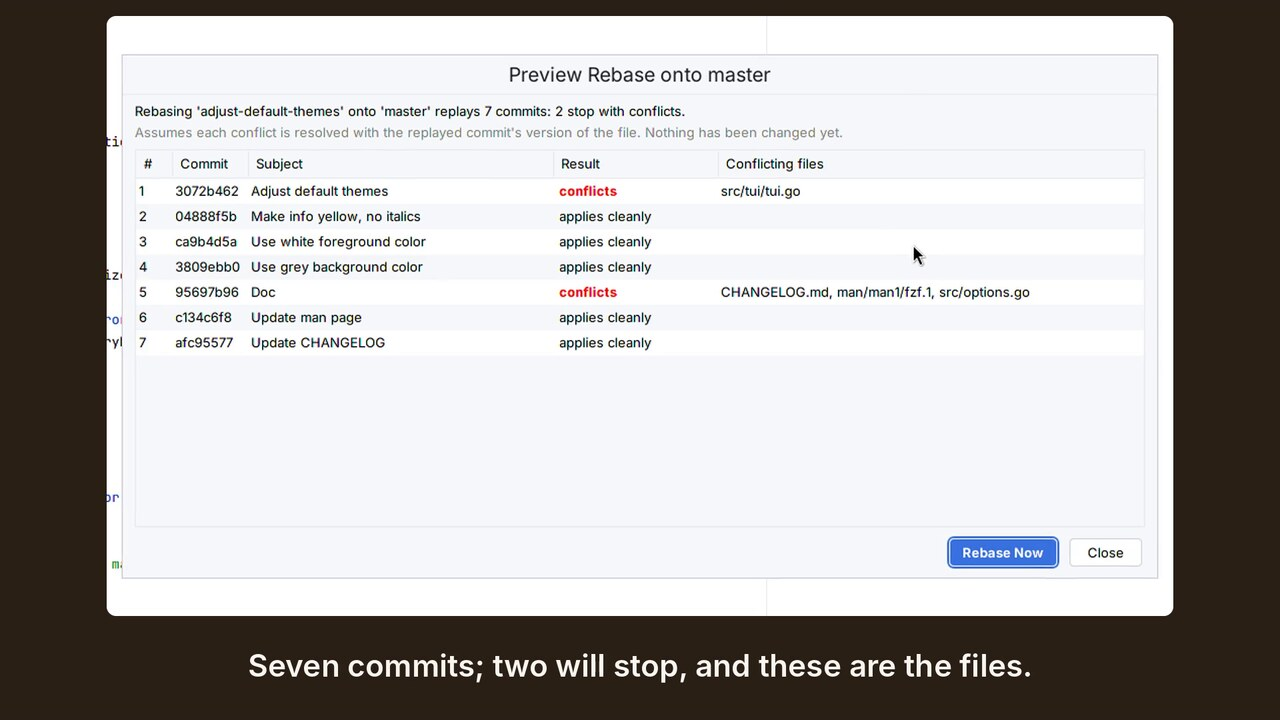
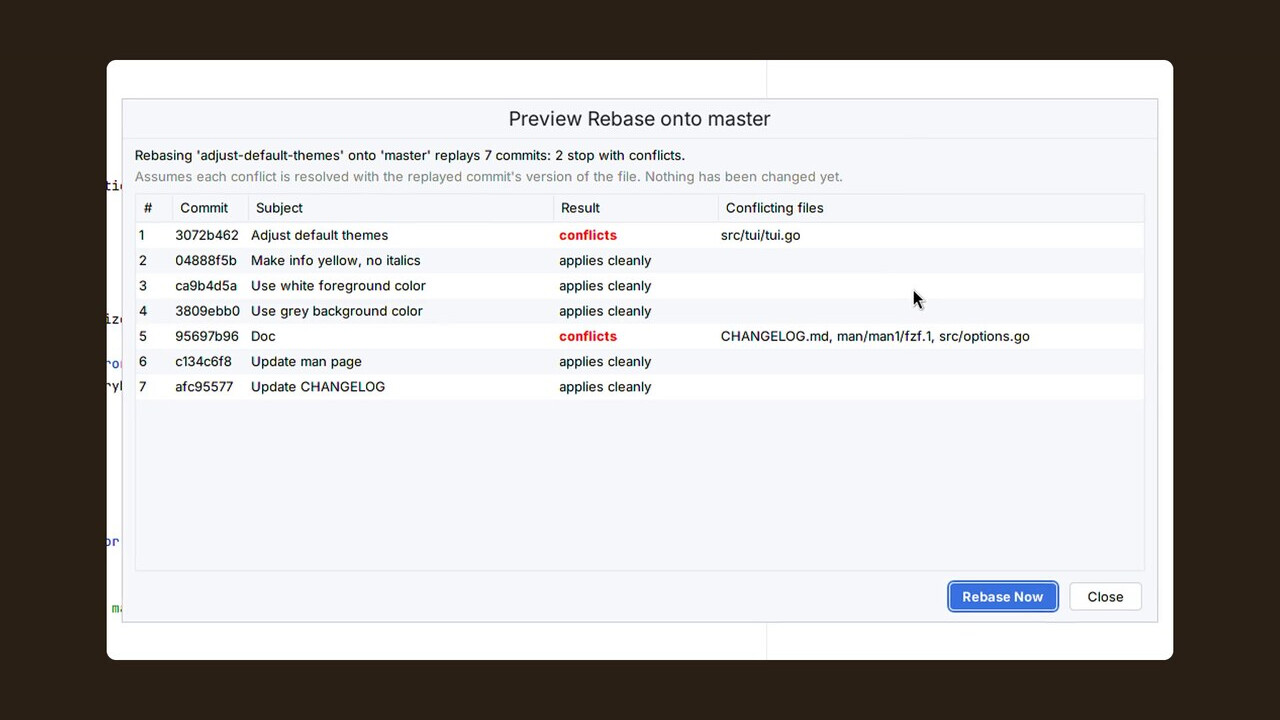
Histsight 1.1.2 after customer gate 2: page opens with the buyer's problem and the promise, PyCharm 2026.3 named as run, free rebase-preview count (new capture), video poster without a caption band; quick start: 2026.x/2025.x zip-install wording, harmless 'Cannot update plugin' balloon, restore-conf

diff --git a/histsight/quick-start.html b/histsight/quick-start.html
@@ -42,8 +42,9 @@
     <li>In the IDE, open <strong>Settings &gt; Plugins</strong>, type <em>Histsight</em> in the search box and click <strong>Install</strong>. The listing is in review and not on JetBrains Marketplace yet; until it is live, the search finds nothing.</li>
     <li>The IDE's bundled Git plugin must be enabled (it is by default). Restart if the IDE asks.</li>
   </ol>
-  <p><strong>From a zip</strong> (for example one you were sent before the listing is live): <strong>Settings &gt; Plugins</strong>, the gear icon next to the tabs, <strong>Install Plugin from Disk…</strong>, choose <code>histsight-1.1.1.zip</code>, accept the third-party plugin notice, and restart. The IDE does not update a plugin installed from a zip, and says "Cannot update plugin" after the restart; install from the Marketplace to get updates.</p>
-  <p>Histsight works with the bundled Git integration of IntelliJ IDEA, PyCharm, WebStorm, PhpStorm, GoLand, Rider and the other JetBrains IDEs, version 2025.1 and later. Tested in IntelliJ IDEA 2025.1.7 and 2026.3 on Linux, with Git 2.43 and 2.51; Windows, macOS, the other IDEs and Remote Development have not been tested yet. The rebase preview needs Git 2.40 or later; everything else works with any Git the IDE supports.</p>
+  <p><strong>From a zip</strong> (for example one you were sent before the listing is live): <strong>Settings &gt; Plugins</strong>, the gear icon next to the search box (2026.x) or next to the Marketplace/Installed tabs (2025.x), <strong>Install Plugin from Disk</strong> (shown with "…" in 2025.x), choose <code>histsight-1.1.2.zip</code>, accept the third-party plugin notice, and restart.</p>
+  <p>After the restart, 2026.x may show the IDE's own balloon "Cannot update plugin. Unable to identify where Histsight: Merge &amp; Amend was installed from." It is harmless: the IDE does not update plugins installed from a zip, and says so. Install a newer zip the same way, or install from the Marketplace, which does not show it and keeps Histsight updated.</p>
+  <p>Histsight works with the bundled Git integration of IntelliJ IDEA, PyCharm, WebStorm, PhpStorm, GoLand, Rider and the other JetBrains IDEs, version 2025.1 and later. Tested in IntelliJ IDEA 2025.1.7 and 2026.3 and PyCharm 2026.3 on Linux, with Git 2.43 and 2.51; Windows, macOS, the other IDEs and Remote Development have not been tested yet. The rebase preview needs Git 2.40 or later; everything else works with any Git the IDE supports.</p>
 
   <h2 id="merge">Merge modes (free)</h2>
   <ol>
@@ -55,7 +56,7 @@
     <li><strong>Fast-forward only</strong> moves the current branch forward when the selected branch is strictly ahead. If the two have diverged, nothing changes; the notification names both branches and offers <strong>Rebase instead</strong> or <strong>Merge normally</strong>, which hand over to the IDE's own rebase and merge.</li>
     <li><strong>Always create a merge commit</strong> records a two-parent merge commit even when a fast-forward was possible (<code>git merge --no-ff</code>).</li>
     <li>The mode you click applies to that one merge. Your Git configuration and the IDE's own merge entry are unchanged.</li>
-    <li>Local changes or untracked files in the way: Git refuses and nothing changes; the notification names the files. For local changes it offers <strong>Stash, merge, restore</strong>, the same merge with Git's <code>--autostash</code>.</li>
+    <li>Local changes or untracked files in the way: Git refuses and nothing changes; the notification names the files. For local changes it offers <strong>Stash, merge, restore</strong>, the same merge with Git's <code>--autostash</code>. If putting your changes back conflicts, the IDE's Conflicts dialog opens saying the merge is done: resolve the files, there is nothing to commit, and a copy of your changes stays in Git's stash.</li>
     <li>Several repositories: each repository with the branch is merged, and one notification lists every outcome. Merge conflicts open the IDE's own Conflicts dialog.</li>
   </ul>
 
@@ -63,10 +64,10 @@
   <p>Amend as usual: tick <strong>Amend</strong> in the Commit tool window. If a remote-tracking branch already contains the commit, one confirmation names the branch (for example <code>origin/vim-async</code>; with many, your upstream and two more, and the rest counted). <strong>Cancel</strong> is the default button; <strong>Amend anyway</strong> goes on; <strong>Don't ask again for this repository</strong> turns it off for that repository only. A commit that is only local asks nothing. Turn a silenced warning back on in <strong>Settings &gt; Tools &gt; Histsight</strong>.</p>
   <figure><a href="img/pushed-commit-warning-window.png"><img src="img/pushed-commit-warning.png" alt="The Commit tool window with Amend ticked; the dialog Amend a Pushed Commit? names origin/vim-async, with Amend anyway and Cancel as the default" width="885" height="730" loading="lazy"></a><figcaption>The confirmation over the Commit tool window.</figcaption></figure>
 
-  <h2 id="preview">Rebase preview (licensed)</h2>
+  <h2 id="preview">Rebase preview (count free, list licensed)</h2>
   <ol>
     <li>Check out the branch you want to rebase. In the Branches popup or pane, open the submenu of the branch to rebase onto and choose <strong>Preview Rebase onto '&lt;branch&gt;'…</strong>.</li>
-    <li>The dialog lists, in order, every commit the rebase would replay, each marked <strong>applies cleanly</strong> or <strong>conflicts</strong>, with the conflicting files. If untracked files would be overwritten by the target branch, the first line says Git will not start the rebase and names them.</li>
+    <li>Without a licence it runs all the same and shows the first line, for example "Rebasing 'adjust-default-themes' onto 'master' replays 7 commits: 2 stop with conflicts.", then the price and <strong>Get a licence or trial</strong>. With a licence or trial, the dialog lists, in order, every commit the rebase would replay, each marked <strong>applies cleanly</strong> or <strong>conflicts</strong>, with the conflicting files. If untracked files would be overwritten by the target branch, the first line says Git will not start the rebase and names them.</li>
     <li><strong>Rebase Now</strong> hands over to the IDE's own rebase; <strong>Close</strong> leaves everything as it was. The preview never touches your working tree, index, branches or reflog.</li>
   </ol>
   <figure><a href="img/rebase-preview-window.png"><img src="img/rebase-preview.png" alt="Preview Rebase onto master: 7 commits, commit 1 conflicts in src/tui/tui.go, commit 5 in CHANGELOG.md, man/man1/fzf.1 and src/options.go, the rest apply cleanly" width="1026" height="503" loading="lazy"></a><figcaption>Seven commits to replay; commits 1 and 5 will stop the rebase.</figcaption></figure>
@@ -82,7 +83,7 @@
   <figure><a href="img/message-only-amend-multi-repo-window.png"><img src="img/message-only-amend-multi-repo.png" alt="Amend Last Commit in a two-repository project: repository fd selected, 'Only this root is amended.', no local changes, a new message typed, Keep author selected" width="986" height="722" loading="lazy"></a><figcaption>A message-only amend of one repository in a two-repository project.</figcaption></figure>
 
   <h2 id="licence">Licence and trial</h2>
-  <p>The merge modes and the warning are free and never lock. Without a licence, each licensed feature shows one line with the price and <strong>Get a licence or trial</strong>, which opens the IDE's own licence dialog, only when you click it. In the rebase preview and the amend view, the click closes that window and the IDE's licence dialog opens in its place; in Settings it opens on top, and the link shows "Opening the IDE's licence dialog…" until it is there. More clicks open nothing more while it is open. After you start the trial or buy, open the feature again. The trial and purchase themselves go through the IDE's dialog and a JetBrains Account, and have not been tried yet, because the listing is not live. Nothing appears at startup. The licence is a JetBrains Marketplace perpetual licence: $9 once, the same for personal and commercial use, every update included, nothing renews. The trial is 30 days of every feature. <strong>Settings &gt; Tools &gt; Histsight</strong> shows your licence state.</p>
+  <p>The merge modes, the warning and the rebase preview's count are free and never lock. Without a licence, each licensed feature shows one line with the price and <strong>Get a licence or trial</strong>, which opens the IDE's own licence dialog, only when you click it. In the rebase preview and the amend view, the click closes that window and the IDE's licence dialog opens in its place; in Settings it opens on top, and the link shows "Opening the IDE's licence dialog…" until it is there. More clicks open nothing more while it is open. After you start the trial or buy, open the feature again. The trial and purchase themselves go through the IDE's dialog and a JetBrains Account, and have not been tried yet, because the listing is not live. Nothing appears at startup. The licence is a JetBrains Marketplace perpetual licence: $9 once, the same for personal and commercial use, every update included, nothing renews. The trial is 30 days of every feature. <strong>Settings &gt; Tools &gt; Histsight</strong> shows your licence state.</p>
 
   <h2 id="limits">Known limits</h2>
   <ul>
@@ -97,7 +98,7 @@
   <p>Histsight runs only the local <code>git</code> executable on your project's own repositories. None of the commands it runs is a fetch, pull or push, and it sends nothing anywhere: no telemetry, no analytics. In a partial clone, Git itself downloads missing file contents when a merge or amend needs them, as it does for the IDE's own merge; the rebase preview turns that off and never downloads. The licence check is done by the IDE through JetBrains Marketplace licensing. See also the <a href="../privacy.html">privacy policy</a>.</p>
 
   <h2 id="source">Source code</h2>
-  <p>Histsight is GPL-3.0-or-later (<a href="license.html">licence text</a>). The complete source ships inside the plugin zip, as <code>histsight/source/histsight-1.1.1-source.zip</code>.</p>
+  <p>Histsight is GPL-3.0-or-later (<a href="license.html">licence text</a>). The complete source ships inside the plugin zip, as <code>histsight/source/histsight-1.1.2-source.zip</code>.</p>
 
   <h2 id="support">Support</h2>
   <p>Email <a href="mailto:support@ochrestack.com">support@ochrestack.com</a> with the IDE version (Help &gt; About), the output of <code>git --version</code>, and what you saw. Bug reports and feature requests are welcome at the same address.</p>

diff --git a/histsight/index.html b/histsight/index.html
@@ -118,7 +118,7 @@
 </header>
 <section class="top">
   <h1>Histsight: Merge &amp; Amend</h1>
-  <p class="sub">The Branches popup's merge takes no options and gives no hint of what it will do, and the IDE lets you amend a pushed commit without a warning.</p>
+  <p class="sub">Merging <code>--ff-only</code> or <code>--no-ff</code> shouldn't take the Git | Merge dialog: Histsight puts both in the Branches popup, and asks before you amend a pushed commit.</p>
   <div class="top-images">
     <figure class="top-image">
       <a href="img/branches-popup-merge-modes-window.png"><img class="hero" src="img/branches-popup-merge-modes.png" alt="IntelliJ IDEA 2026.3, Branches popup on the current branch master, with the submenu of origin/master open. Below the IDE's own entries, three Histsight entries: 'Merge into current, fast-forward only (fast-forward)', highlighted, 'Merge into current, always create a merge commit (fast-forward possible)' and 'Preview Rebase onto origin/master…'. A Go source file is open behind the popup" width="880" height="560"></a>
@@ -126,7 +126,7 @@
     </figure>
     <figure class="top-image preview-wide">
       <a href="img/rebase-preview-window.png"><img src="img/rebase-preview.png" alt="The Preview Rebase onto master dialog: 'Rebasing adjust-default-themes onto master replays 7 commits: 2 stop with conflicts.' Commit 1 conflicts in src/tui/tui.go; commit 5 conflicts in CHANGELOG.md, man/man1/fzf.1 and src/options.go; the other five apply cleanly. Buttons Rebase Now and Close" width="1026" height="503"></a>
-      <figcaption>$9 once: 7 commits, 2 will stop, with their files, before anything changes.</figcaption>
+      <figcaption>Free: 7 commits, 2 will stop. $9 once: which, and their files.</figcaption>
     </figure>
   </div>
   <ul class="benefits">
@@ -135,14 +135,14 @@
     <li><strong>See where a rebase will stop before it starts,</strong> commit by commit, with the files.</li>
   </ul>
   <div class="buy">
-    <p class="price"><strong>Free:</strong> merge modes and the warning. <strong>$9 once:</strong> rebase preview and amend tools, personal or commercial. Nothing renews; 30-day trial.</p>
+    <p class="price"><strong>Free:</strong> merge modes, the warning, a rebase's stop count. <strong>$9 once:</strong> the full preview and amend tools, personal or commercial. Nothing renews; 30-day trial.</p>
     <p><a class="button pending" id="buy" href="#" aria-describedby="buy-note" onclick="return false;">Get it on JetBrains Marketplace</a></p>
     <p class="note" id="buy-note">Listing in review: not on JetBrains Marketplace yet.</p>
-    <p class="fine">Tested: IntelliJ IDEA 2025.1.7 and 2026.3 on Linux; Windows and macOS untested. Source included. Support: <a href="mailto:support@ochrestack.com">support@ochrestack.com</a> · <a href="quick-start.html">Quick start</a></p>
+    <p class="fine">Tested: IntelliJ IDEA 2025.1.7 and 2026.3 and PyCharm 2026.3 on Linux; Windows and macOS untested. Source included. Support: <a href="mailto:support@ochrestack.com">support@ochrestack.com</a> · <a href="quick-start.html">Quick start</a></p>
   </div>
   <figure class="preview-narrow">
     <a href="img/rebase-preview-window.png"><img class="hero" src="img/rebase-preview.png" alt="The Preview Rebase onto master dialog: 'Rebasing adjust-default-themes onto master replays 7 commits: 2 stop with conflicts.' Commit 1 conflicts in src/tui/tui.go; commit 5 conflicts in CHANGELOG.md, man/man1/fzf.1 and src/options.go; the other five apply cleanly. Buttons Rebase Now and Close" width="1026" height="503" loading="lazy"></a>
-    <figcaption>$9 once: 7 commits, 2 will stop, with their files, before anything changes.</figcaption>
+    <figcaption>Free: 7 commits, 2 will stop. $9 once: which, and their files.</figcaption>
   </figure>
 </section>
 <main>
@@ -165,7 +165,7 @@
     <thead><tr><th></th><th>Choose <code>--ff-only</code> or <code>--no-ff</code></th><th>Hint before you click</th><th>Where</th></tr></thead>
     <tbody>
       <tr><td>The IDE's popup merge ("Merge 'x' into 'y'")</td><td>No: Git's default or your <code>merge.ff</code></td><td>No</td><td>Branches popup and Branches pane, one click</td></tr>
-      <tr><td>The IDE's Git | Merge dialog</td><td>Yes, under Modify options</td><td>No</td><td>Git menu, a dialog: branch, Modify options, flag, Merge</td></tr>
+      <tr><td>The IDE's Git | Merge dialog</td><td>Yes, under Modify options</td><td>No</td><td>Git menu, then a dialog</td></tr>
       <tr><td><strong>Histsight</strong> (free)</td><td>Yes: one entry for each</td><td>Yes: <em>fast-forward</em>, <em>already up to date</em> or <em>diverged</em></td><td>Branches popup and Branches pane, one click</td></tr>
     </tbody>
   </table>
@@ -194,8 +194,8 @@
   </figure>
 
   <figure class="real-size">
-    <a href="img/no-licence-one-line-window.png"><img src="img/no-licence-one-line.png" alt="Without a licence, the rebase preview shows one line: 'The rebase preview needs a Histsight licence: $9 once, the same for personal and commercial use, with a 30-day free trial.' and the link Get a licence or trial" width="820" height="149" loading="lazy"></a>
-    <figcaption>No licence: one line, only on paid features.</figcaption>
+    <a href="img/no-licence-free-count-window.png"><img src="img/no-licence-free-count.png" alt="Without a licence, the Preview Rebase onto master window: 'Rebasing adjust-default-themes onto master replays 7 commits: 2 stop with conflicts.', then 'The list of commits and files needs a Histsight licence: $9 once, the same for personal and commercial use, with a 30-day free trial.', the link Get a licence or trial, and Close" width="877" height="183" loading="lazy"></a>
+    <figcaption>No licence: the count is free; the list is $9.</figcaption>
   </figure>
 
   <h2 id="proof">Checked against real rebases</h2>
@@ -205,7 +205,7 @@
   <ul>
     <li>Rebase preview: Git 2.40+; plain rebase only, not <code>--rebase-merges</code>, <code>--onto</code> or autosquash.</li>
     <li>No Jujutsu, <code>--squash</code>, older commits or push; no WSL Git for the preview and amend view.</li>
-    <li>JetBrains IDEs 2025.1+; only IntelliJ IDEA has been run. Remote Development untested.</li>
+    <li>JetBrains IDEs 2025.1+; IntelliJ IDEA and PyCharm have been run, the other IDEs and Remote Development not.</li>
   </ul>
 
   <h2 id="details">Details</h2>

diff --git a/index.html b/index.html
@@ -47,7 +47,7 @@
   <p><a href="sortlatch/">Sortlatch for Confluence</a>: keeps a Confluence Cloud page's child pages in A to Z order, permanently. New, renamed and moved pages go to their place within minutes, with numbers in natural order, Z to A, newest or oldest first, pins, a preview and undo. Free for up to 10 users; coming to the Atlassian Marketplace.</p>
   <p><a href="xsdtrail/">Xsdtrail for XSD and WSDL</a>: a Design tab for XML Schema and WSDL files in IntelliJ IDEA and other JetBrains IDEs (2025.1 and later). A schema split across many files opens as one diagram, each box labelled with its file, and a double-click opens the declaration. Free for boxes in the open file; $12 once for multi-file schemas and the full WSDL operation view. Coming to JetBrains Marketplace; not submitted yet.</p>
   <p><a href="hexgrain/">Hexgrain: Debugger Hex View</a>: a Java or Kotlin byte array in the IntelliJ IDEA debugger as a hex dump, with offsets, 8, 16 or 32 bytes per row and the characters beside them, and the bytes that changed since the last pause marked. IntelliJ IDEA 2025.3 and later. Free up to 64 KB; $9 once for arrays of any size, more types, a data inspector, Find, Copy As and Save. Source code included. Free download now; the licence comes with the JetBrains Marketplace listing (in review).</p>
-  <p><a href="histsight/">Histsight: Merge &amp; Amend</a>: fast-forward-only and always-a-merge-commit merges in the Branches popup of JetBrains IDEs (2025.1 and later), with a hint before you click, and a warning before you amend a commit a remote branch already contains: both free. $9 once adds a preview of which commits a rebase will stop on, and in which files, and message-only or author amends, also with several repositories. Source code included. Coming to JetBrains Marketplace; listing in review.</p>
+  <p><a href="histsight/">Histsight: Merge &amp; Amend</a>: fast-forward-only and always-a-merge-commit merges in the Branches popup of JetBrains IDEs (2025.1 and later), with a hint before you click, and a warning before you amend a commit a remote branch already contains: both free, and so is the count of commits a rebase will stop on. $9 once adds which commits and in which files, and message-only or author amends, also with several repositories. Source code included. Coming to JetBrains Marketplace; listing in review.</p>
   <p><a href="scrollgrep/">Scrollgrep: Terminal Filter</a>: a live filter for the Terminal tool window of IntelliJ IDEA and other JetBrains IDEs (2025.3 and later). Type text or a grep -E pattern and a panel beside the Terminal lists only the matching lines, adding new ones as the output scrolls; the Terminal itself is left as it was. Free to filter; $12 once for clickable paths and stack frames, one-command scope with context, colour-coded patterns saved per project and watch alerts. Coming to JetBrains Marketplace; listing in review.</p>
   <p><a href="heatfold/">Heatfold: Flame Graph &amp; gprof</a>: opens gprof reports, perf script text, pprof profiles and trace JSON in JetBrains IDEs (2025.3 and later) as a flame graph and a hot-functions table, with a double-click to the source line, also when the profile was recorded on another machine. $15 once, the same for personal and commercial use; 30-day trial. Coming to JetBrains Marketplace; listing in review.</p>
   <p><a href="linkrounds/">Linkrounds for WordPress</a>: a broken link checker that runs on your own server, with no account and no link limit, and calls a link Broken only after it fails twice, an hour apart. Every fix is a post revision you can restore. Free; Linkrounds Pro adds scheduled scans, an email report and CSV export for $19 one-time (up to 3 sites), no renewal.</p>
